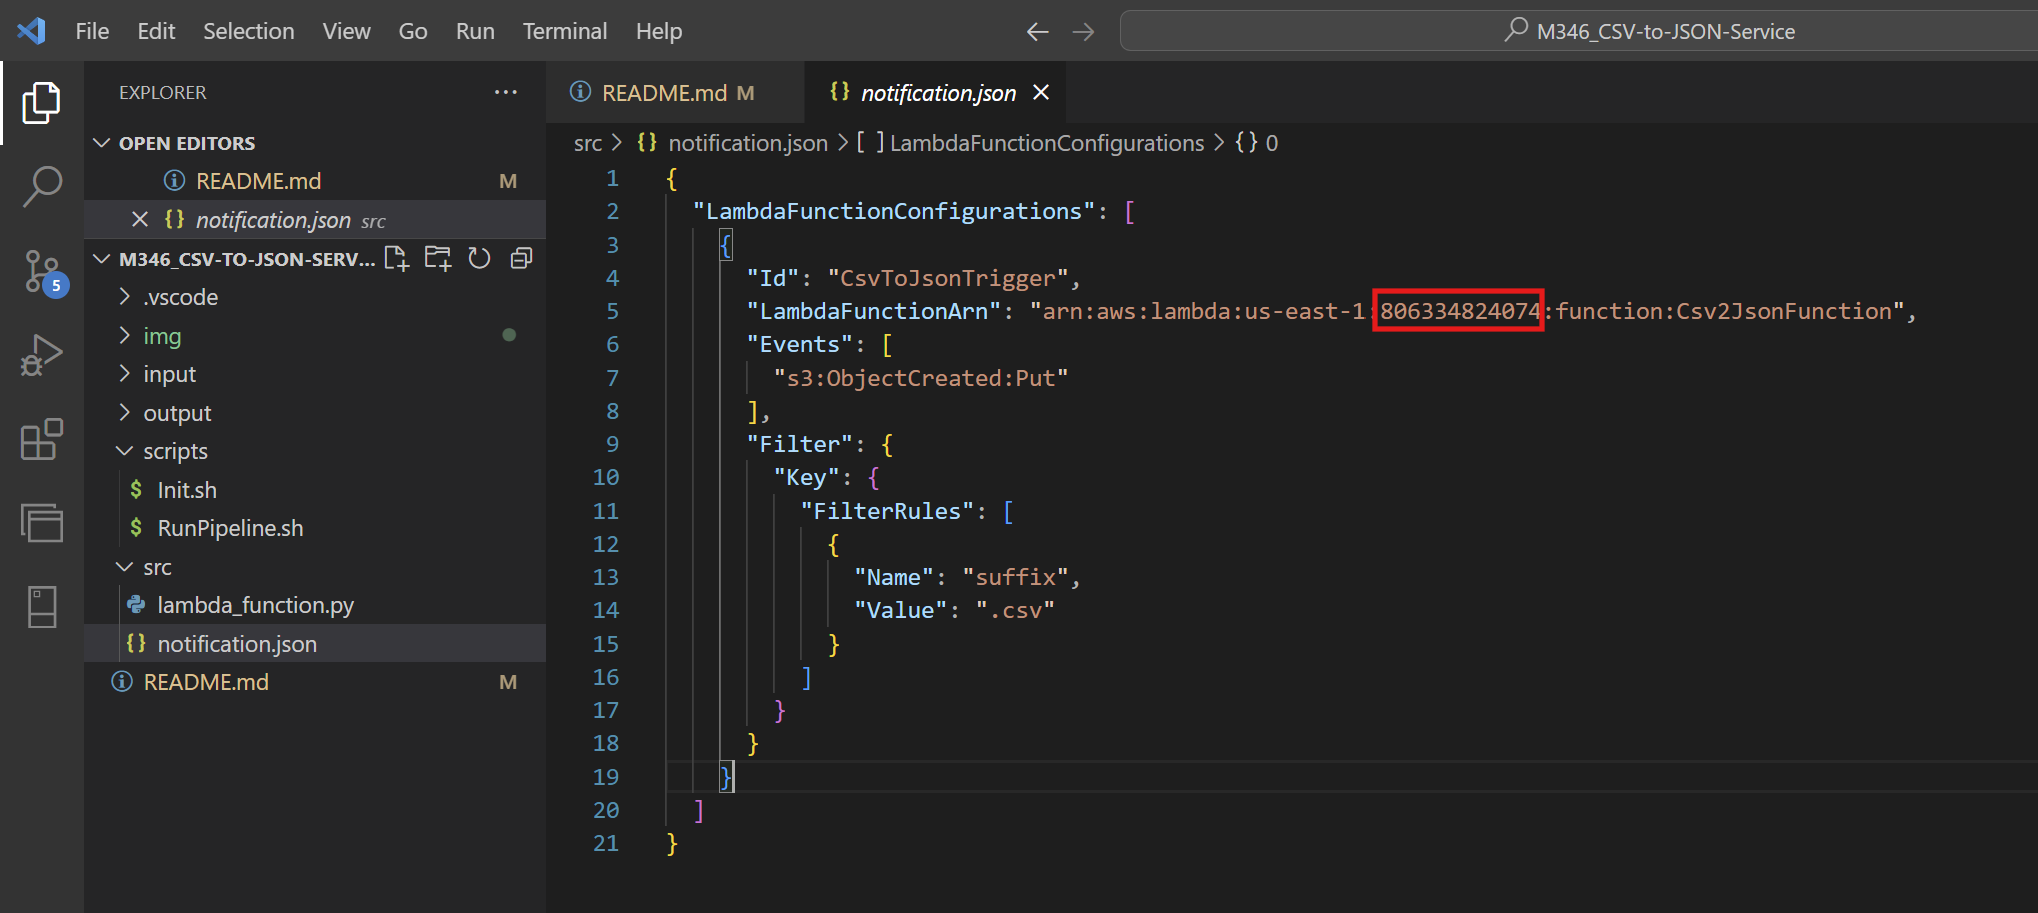
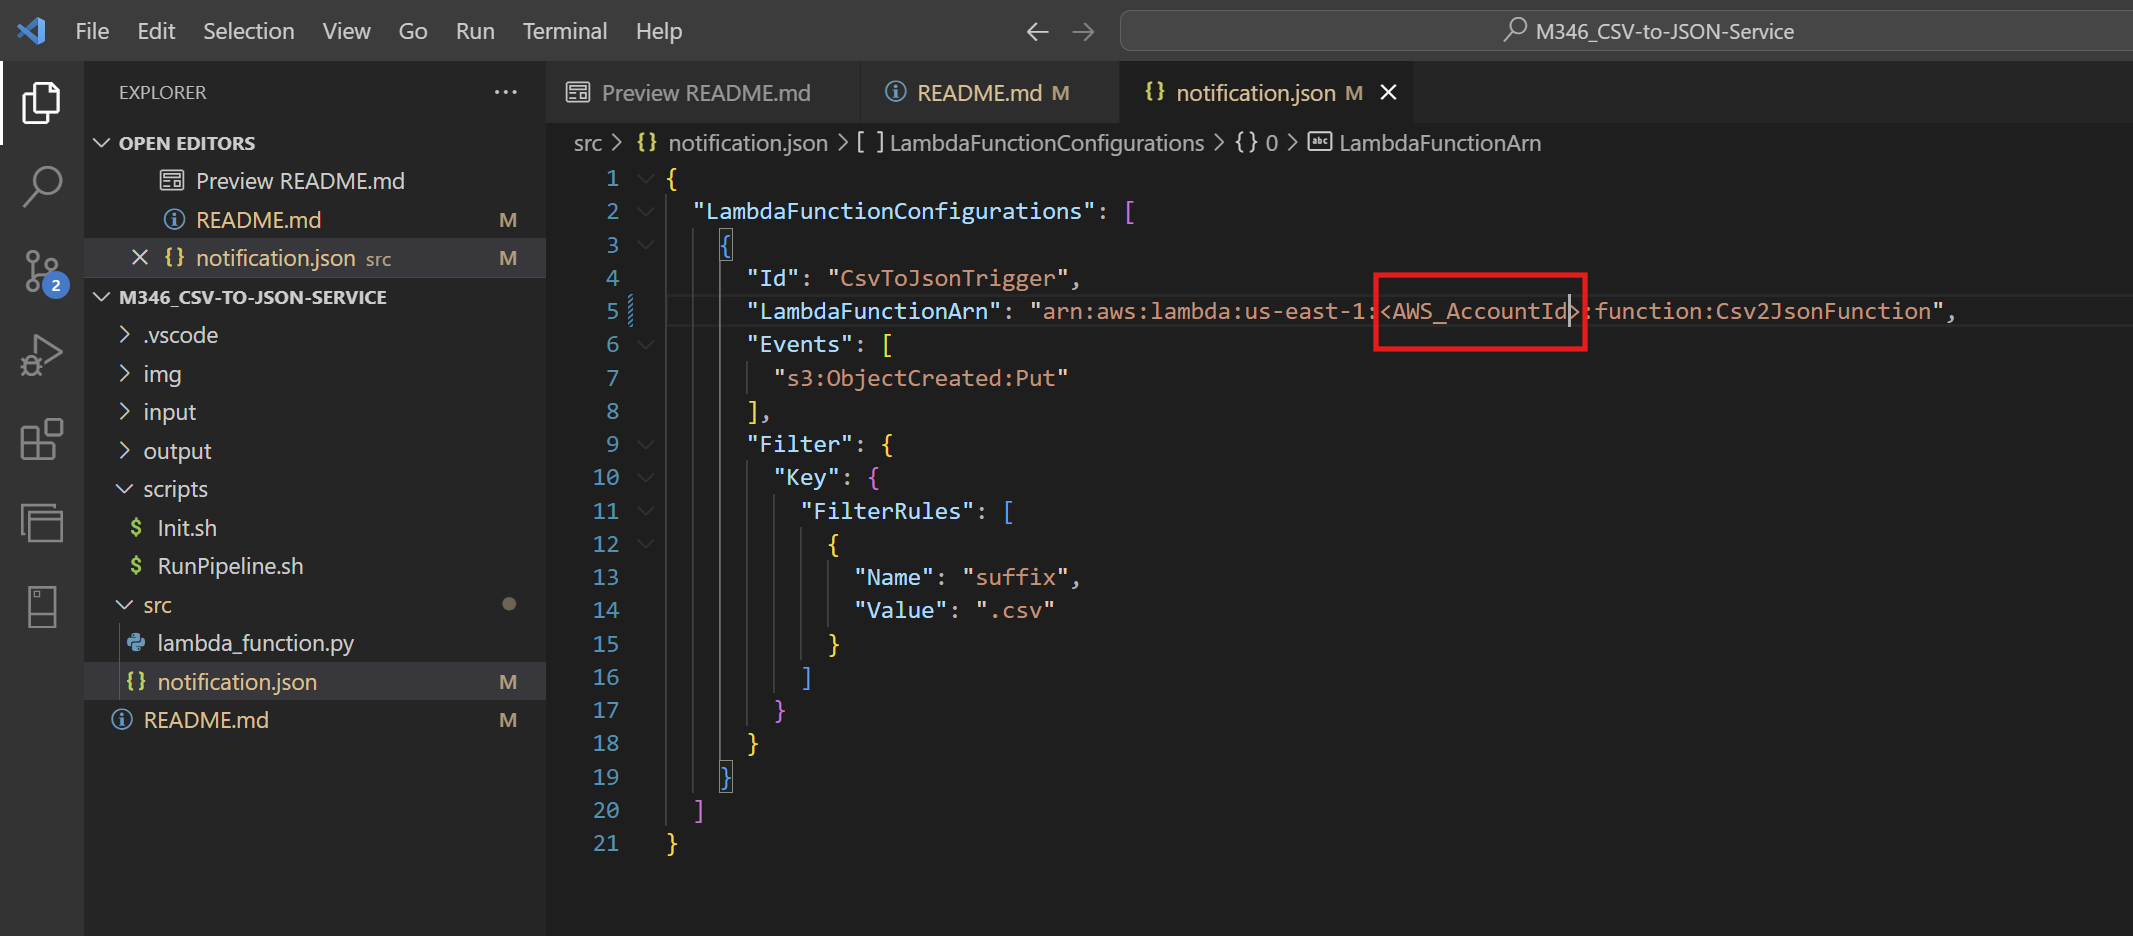
Steps edited

diff --git a/README.md b/README.md
@@ -111,13 +111,16 @@ pip install boto3
 <br>
 Unter M346_CSV-to-JSON-Service/src/notification.json ändern Sie die folgende Zeile:
 <br>
-"LambdaFunctionArn": "arn:aws:lambda:us-east-1:**<AWS_AccountId>**:function:Csv2JsonFunction",
-Ersetzen Sie <AWS_AccountId> mit ihrem eigenen Aws_AccountId
+<br>
+"LambdaFunctionArn": "arn:aws:lambda:us-east-1:**<AWS_AccountId>**:function:Csv2JsonFunction", 
+<br>
+<br>
+Ersetzen Sie **<AWS_AccountId>** mit ihrem eigenen Aws_AccountId
 <br>
 
 <img src="img/notificationjson.png" width="500">
 <br>
-
+<br>
 5. **Initialisierung ausführen**: Führen Sie das Initialisierungsskript aus, um die erforderlichen AWS-Ressourcen zu erstellen:
 ```bash
 # Datei ausführbar machen (Berechtigungen)
